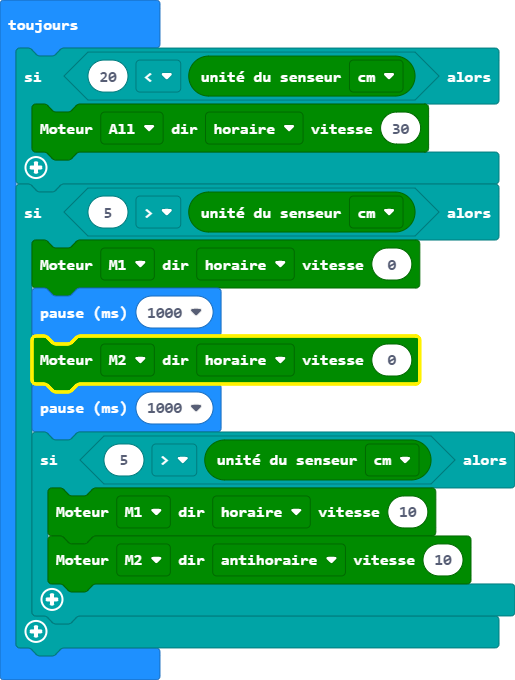
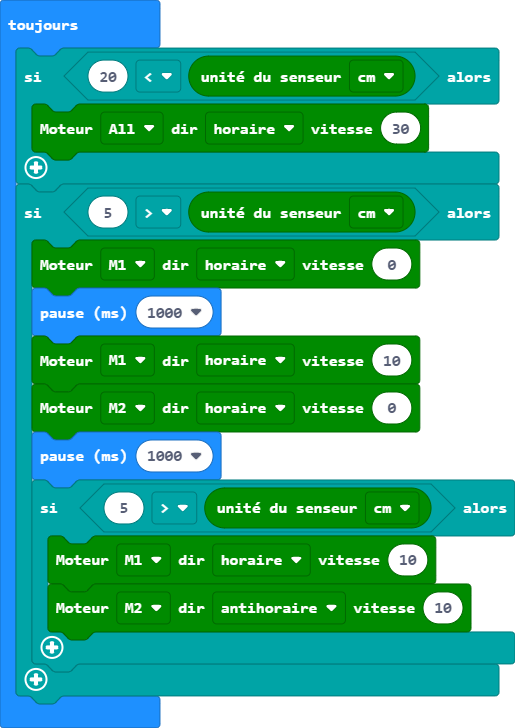
Mise à jour main.blocks, main.ts

diff --git a/main.ts b/main.ts
@@ -5,6 +5,7 @@ basic.forever(function () {
     if (5 > maqueen.Ultrasonic(PingUnit.Centimeters)) {
         maqueen.motorRun(maqueen.Motors.M1, maqueen.Dir.CW, 0)
         basic.pause(1000)
+        maqueen.motorRun(maqueen.Motors.M1, maqueen.Dir.CW, 10)
         maqueen.motorRun(maqueen.Motors.M2, maqueen.Dir.CW, 0)
         basic.pause(1000)
         if (5 > maqueen.Ultrasonic(PingUnit.Centimeters)) {
